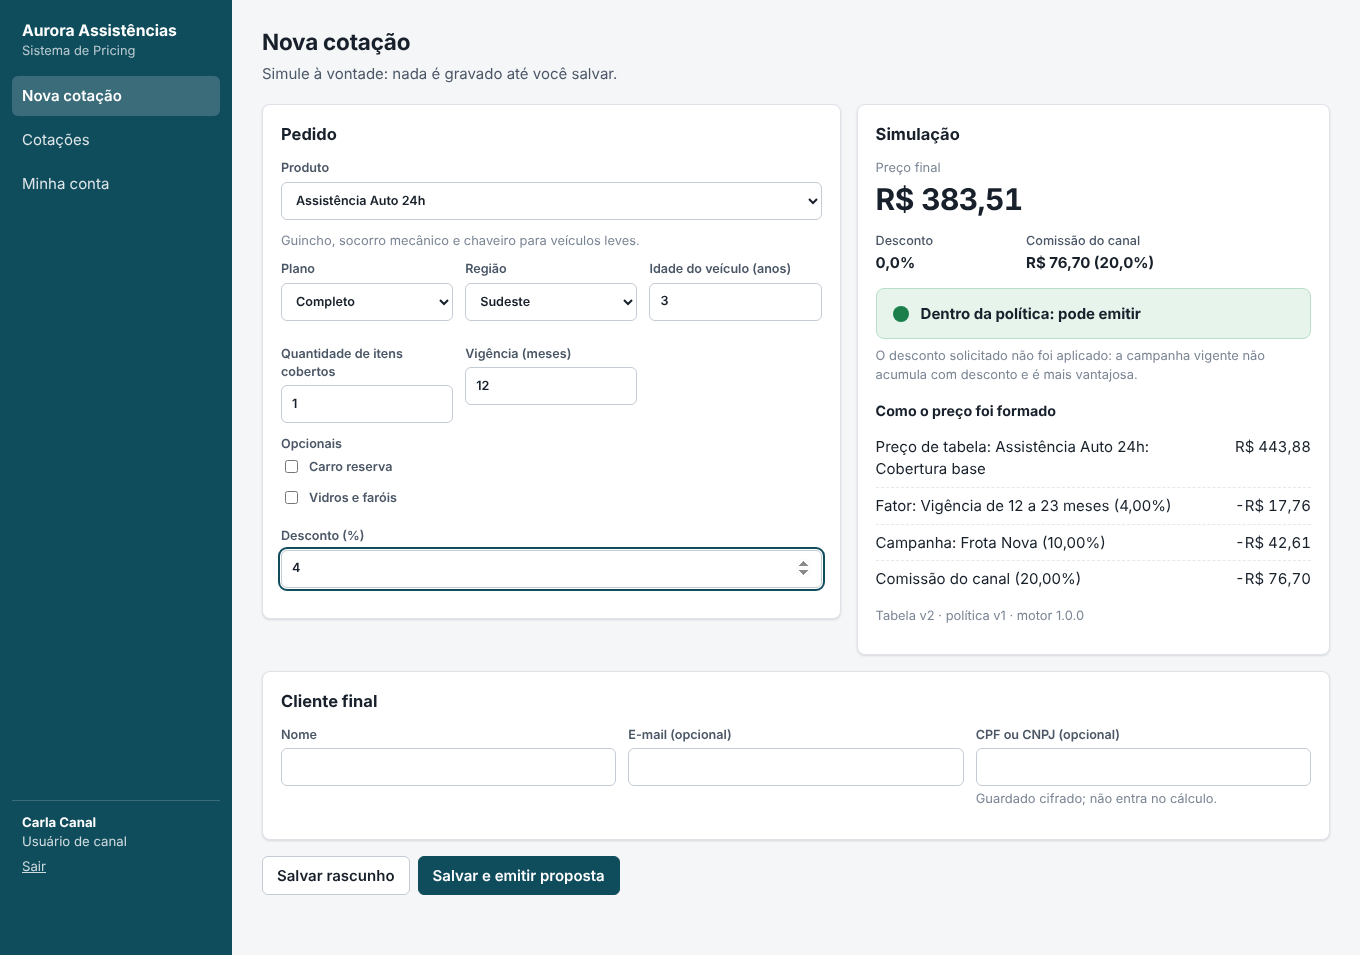
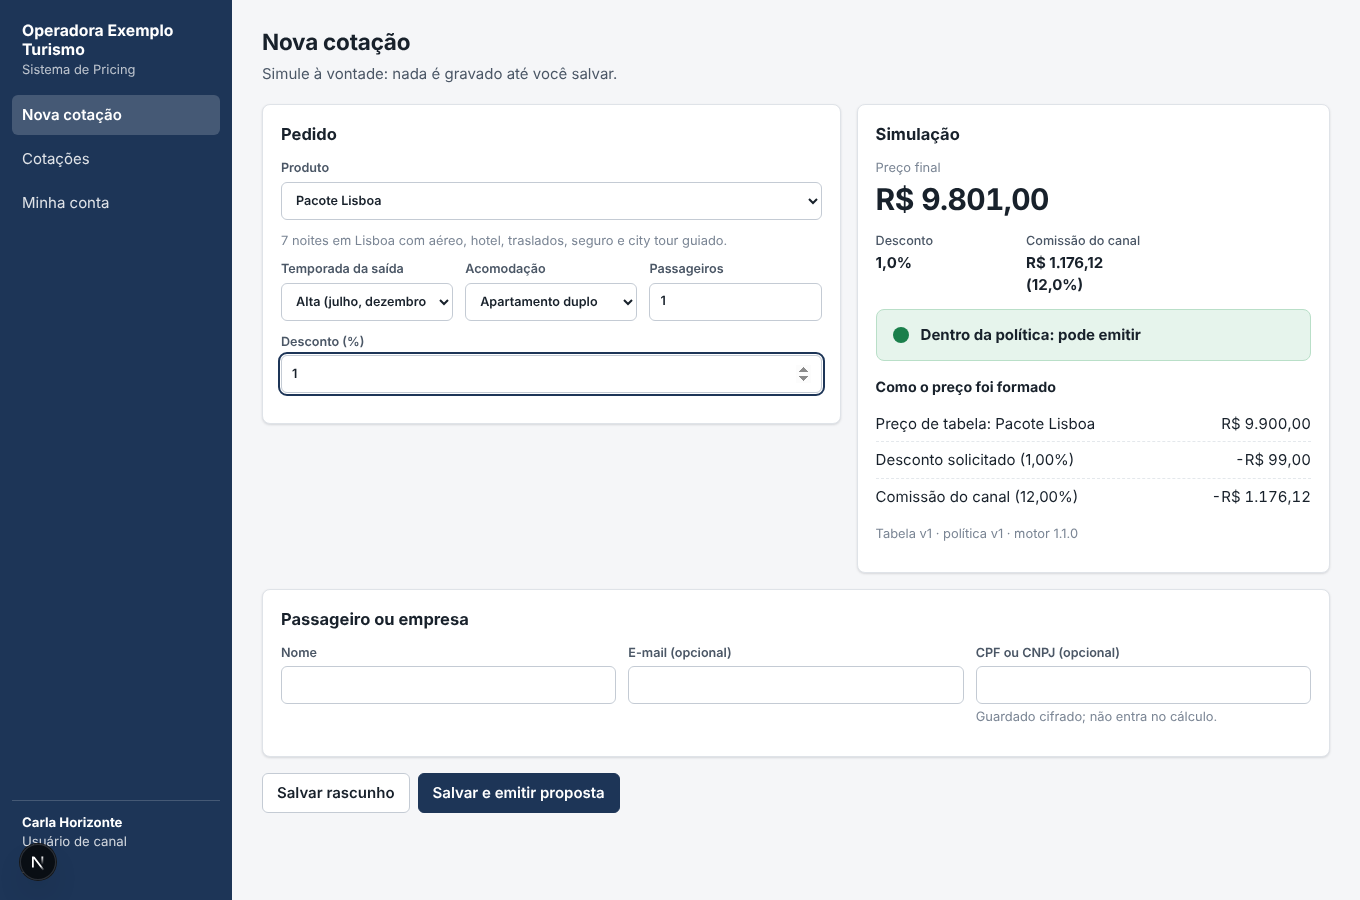
Roteiro de 20 minutos com a operadora de turismo (A6)
Os sete passos com o pacote Lisboa de julho: preço, margem de R$ 587,00,
comissão do vendedor e câmbio que zera a margem; 5% vai ao gerente (margem
R$ 181,10, comissão R$ 18,11) e 8% fica vermelho; aprovação pelo celular com
a folga cambial; agência sem custo, margem, câmbio nem comissão do vendedor,
também na resposta do servidor; câmbio de R$ 6,30 com simulação de impacto e
proposta emitida intacta; perda por preço com o valor do concorrente; painel
com os blocos novos e envio ao diagnóstico desligado, com prévia e pacote
baixado. 49 conferências; capturas de docs/capturas refeitas.

Claude-Session: https://claude.ai/code/session_014Gt4zUqYvpbakhqpcnjoVT

diff --git a/sistema-pricing/apps/web/src/app/(app)/painel/page.tsx b/sistema-pricing/apps/web/src/app/(app)/painel/page.tsx
@@ -147,16 +147,16 @@ export default function Painel() {
                     <th className="num">Emitidas</th>
                     <th className="num">Conversão</th>
                     <th className="num">Desconto médio</th>
-                    <th className="num">Desvio do desconto</th>
-                    <th className="num">Maior desconto</th>
-                    <th className="num">Margem das fechadas</th>
-                    <th className="num">Comissão do vendedor</th>
+                    <th className="num" title="Desvio-padrão do desconto">Desvio</th>
+                    <th className="num">Maior</th>
+                    <th className="num">Margem</th>
+                    <th className="num">Comissão</th>
                   </tr>
                 </thead>
                 <tbody>
                   {dados.painel.porVendedor.map((v: any) => (
                     <tr key={v.vendedor}>
-                      <td>{v.vendedor}</td>
+                      <td style={{ whiteSpace: 'nowrap' }}>{v.vendedor}</td>
                       <td className="num">{numero(v.emitidas)}</td>
                       <td className="num">{v.conversaoPct != null ? pct(v.conversaoPct) : '—'}</td>
                       <td className="num">{pct(v.descontoMedioPct)}</td>

diff --git a/sistema-pricing/apps/web/src/app/(app)/envio-diagnostico/page.tsx b/sistema-pricing/apps/web/src/app/(app)/envio-diagnostico/page.tsx
@@ -159,7 +159,9 @@ export default function EnvioDiagnostico() {
                     {a.linhas.map((l: any[], i: number) => (
                       <tr key={i}>
                         {l.map((v, j) => (
-                          <td key={j}>{v ?? ''}</td>
+                          <td key={j} style={{ whiteSpace: 'nowrap' }}>
+                            {v ?? ''}
+                          </td>
                         ))}
                       </tr>
                     ))}
